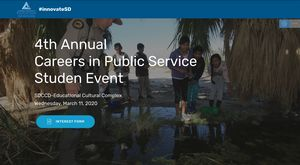
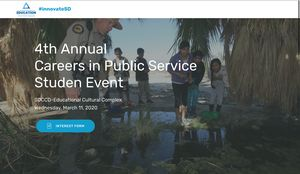
Final 12/11 Update
Updated Map, Header, Main image.

diff --git a/index.html b/index.html
@@ -51,12 +51,14 @@
         </div>
         <div class="collapse navbar-collapse" id="navbarSupportedContent">
             
-            
+            <div class="navbar-buttons mbr-section-btn"><a class="btn btn-sm btn-primary display-4" href="https://docs.google.com/forms/d/e/1FAIpQLSdn7Vj0Gaoi096prub9n4FAh8korSjlUkb96y2x2VTiLe_kWA/viewform" target="_blank"><span class="mbri-edit mbr-iconfont mbr-iconfont-btn"></span>
+                    
+                    INTEREST FORM</a></div>
         </div>
     </nav>
 </section>
 
-<section class="engine"><a href="https://mobirise.info/g">build your own website for free</a></section><section class="header9 cid-rKoaYOkVmE mbr-fullscreen" id="header9-t">
+<section class="engine"><a href="https://mobirise.info/y">free html site templates</a></section><section class="header9 cid-rKoaYOkVmE mbr-fullscreen" id="header9-t">
 
     
 
@@ -64,7 +66,7 @@
     </div>
 
     <div class="container">
-        <div class="media-container-column mbr-white">
+        <div class="media-container-column mbr-white col-lg-8 col-md-10">
             <h1 class="mbr-section-title align-left mbr-bold pb-3 mbr-fonts-style display-1"><span style="font-weight: normal;">4th Annual&nbsp;</span><div><span style="font-weight: normal;">Careers in Public Service</span></div><div><span style="font-weight: normal;">Studen Event</span><br></div></h1>
             
             <p class="mbr-text align-left pb-3 mbr-fonts-style display-5">SDCCD-Educational Cultural Complex <br>Wednesday, March 11, 2020</p>

diff --git a/assets/mobirise/css/mbr-additional.css b/assets/mobirise/css/mbr-additional.css
@@ -937,10 +937,6 @@ section.lazy-placeholder:after {
 .cid-rfstEI2sjI .collapsed .navbar-collapse.show .navbar-nav .nav-item {
   clear: both;
 }
-.cid-rfstEI2sjI .collapsed .navbar-collapse.collapsing .navbar-nav .nav-item:last-child,
-.cid-rfstEI2sjI .collapsed .navbar-collapse.show .navbar-nav .nav-item:last-child {
-  margin-bottom: 1rem;
-}
 .cid-rfstEI2sjI .collapsed .navbar-collapse.collapsing .navbar-buttons,
 .cid-rfstEI2sjI .collapsed .navbar-collapse.show .navbar-buttons {
   text-align: center;
@@ -1035,10 +1031,6 @@ section.lazy-placeholder:after {
   .cid-rfstEI2sjI .navbar-collapse.show .navbar-nav .nav-item {
     clear: both;
   }
-  .cid-rfstEI2sjI .navbar-collapse.collapsing .navbar-nav .nav-item:last-child,
-  .cid-rfstEI2sjI .navbar-collapse.show .navbar-nav .nav-item:last-child {
-    margin-bottom: 1rem;
-  }
   .cid-rfstEI2sjI .navbar-collapse.collapsing .navbar-buttons,
   .cid-rfstEI2sjI .navbar-collapse.show .navbar-buttons {
     text-align: center;
@@ -1100,7 +1092,7 @@ section.lazy-placeholder:after {
   color: #767676 !important;
 }
 .cid-rKoaYOkVmE {
-  background-image: url("../../../assets/images/science-ranger-3-2000x1333.jpg");
+  background-image: url("../../../assets/images/img-8103-2000x1333.jpeg");
 }
 .cid-rKoaYOkVmE h1 {
   color: #616161;
